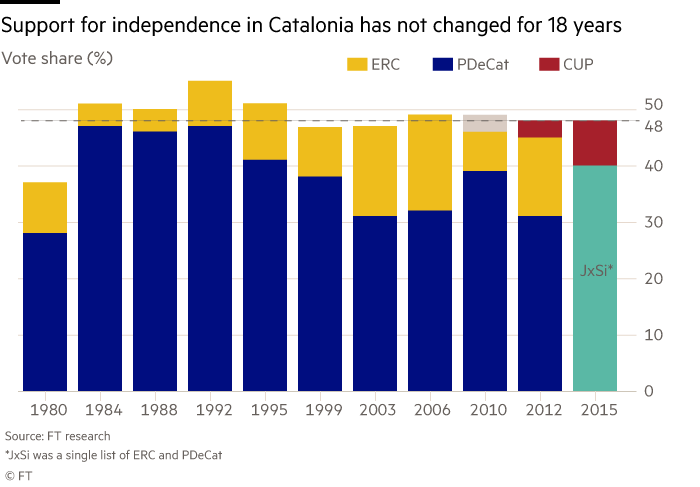
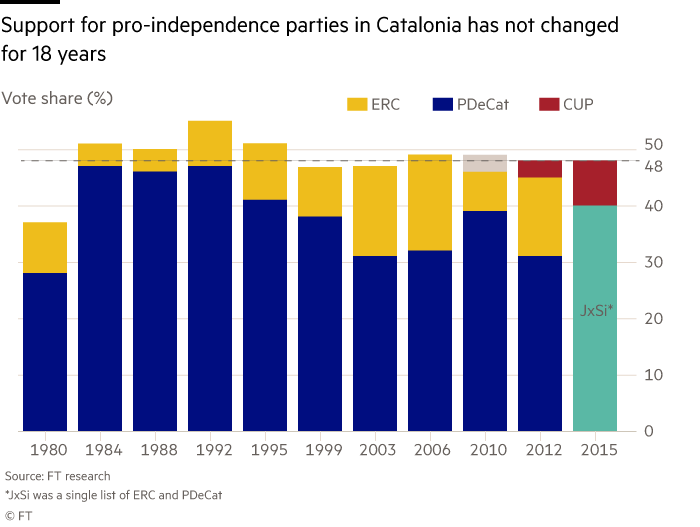
add pro-indy chart

diff --git a/client/index.html b/client/index.html
@@ -106,8 +106,6 @@ The unionist parties are so ideologically incompatible it seems unlikely that th
 
 The aggregate support for pro-independence parties has barely changed for 18 years: the 48 per cent suggested by current polls is more or less where it has been for the past six elections - though this may not capture shifts in party policy. For example PDeCat was in the past more moderately nationalist, seeking more autonomy within Spain; only in recent years has it become more overtly pro-independence.
 
-However, recent tensions between Madrid and Barcelona might have reignited independance sentiment to the levels not seen since the 1990s.
-
 <div class="image-set">
 	<!-- Small+ image -->
 	<div data-o-grid-colspan="hide Sfull-width" style="padding:0">
@@ -121,7 +119,28 @@ However, recent tensions between Madrid and Barcelona might have reignited indep
 	<div data-o-grid-colspan="full-width Shide">
 		<figure class="graphic graphic-b-1 graphic-pad-1" style="margin-left:0">
   		<img alt="In Catalonia, support for independence has not budged for 18 years"
-			src="indep-s.png">
+			src="indep-s.png" style="width:100%">
+			</img>
+		</figure>
+	</div>
+</div>
+
+However, recent tensions between Madrid and Barcelona might have reignited independance sentiment to the levels not seen since the 1990s.
+
+<div class="image-set">
+	<!-- Small+ image -->
+	<div data-o-grid-colspan="hide Sfull-width" style="padding:0">
+		<figure class="graphic graphic-b-1 graphic-pad-1" style="margin-left:0">
+  		<img alt="In Catalonia, support for independence shoot up after 2011"
+			src="indep2_M.png" style="width:100%">
+			</img>
+		</figure>
+	</div>
+	<!-- xSmall image -->
+	<div data-o-grid-colspan="full-width Shide">
+		<figure class="graphic graphic-b-1 graphic-pad-1" style="margin-left:0">
+  		<img alt="In Catalonia, support for independence shoot up after 2011"
+			src="indep2_S.png">
 			</img>
 		</figure>
 	</div>
@@ -134,6 +153,7 @@ Pollsters advise caution when drawing conclusions from the polls. Few polls are 
 ## Methodology
 
 At each point in time, the FT poll-of-polls takes the average of all polls published within the last month. The average of their results is weighted to give more recent polls greater influence on the net score.
+
 
 {% endmarkdown %}
 {% endblock %}
